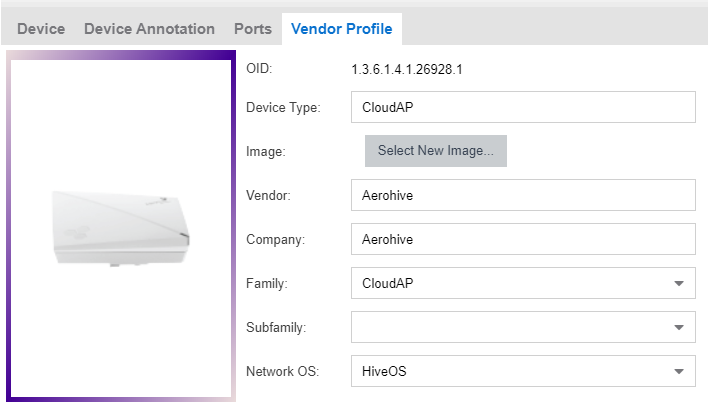
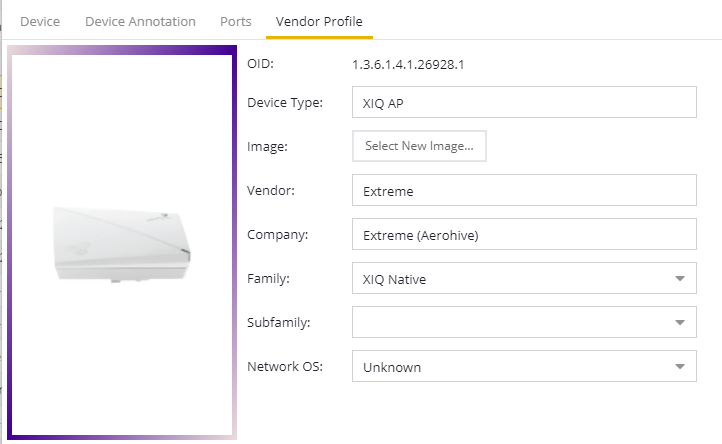
new versions added

Changed region(s): [[0.0, 0.0, 1.0, 0.9976], [0.4972, 0.7922, 0.9633, 0.9389], [0.0621, 0.5575, 0.2797, 0.6748]]

diff --git a/DeviceView/XIQ/README.md b/DeviceView/XIQ/README.md
@@ -8,7 +8,7 @@ The DeviceView does use reports in the MyReports directory. Those reports use Fl
 
 ## XIQ Site Engine, XMC 8.4+
 
-Product Family needs to be configured as "XIQ Native" or [CloudAP](sample/VendorProfile.PNG?raw=true)
+Product Family needs to be configured as "CloudAP" or [XIQ Native](sample/VendorProfile.PNG?raw=true)
 
 | Product | DeviceView   | GitHub FlexView   | XMC Build-in FlexView | Example   |
 | ------- | ------------ |:----------:|:----------------:| --------- |
